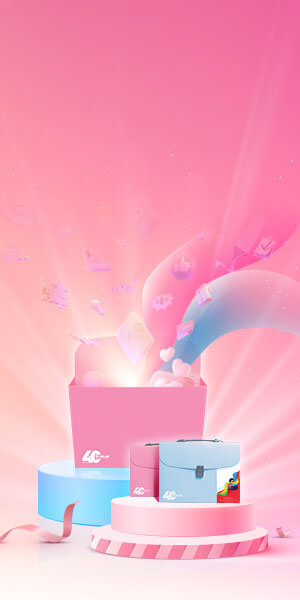
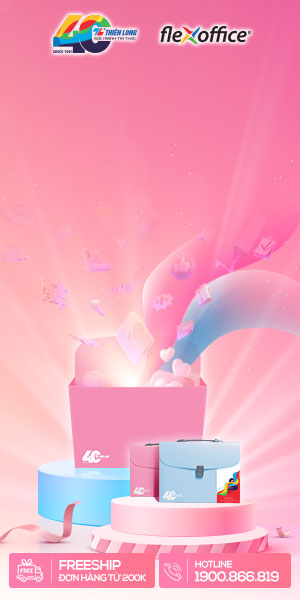
update thien-long v3

Changed region(s): [[0.03, 0.9, 0.99, 0.99], [0.15, 0.0, 0.48, 0.12], [0.51, 0.03, 0.84, 0.09]]

diff --git a/thien-long-v3/flex/300x600/css/css-animation-1.css b/thien-long-v3/flex/300x600/css/css-animation-1.css
@@ -13,9 +13,9 @@ body {
 
 .bg {
   width: 100%;
-  -webkit-animation: bg 10s infinite;
+ /* -webkit-animation: bg 10s infinite;
        -o-animation: bg 10s infinite;
-          animation: bg 10s infinite; }
+          animation: bg 10s infinite;*/ }
 .logo-1 {
          position: absolute;
     width: 31%;
@@ -158,45 +158,20 @@ body {
     opacity: 1;
     -webkit-transform: scale3d(1, 1, 1);
     transform: scale3d(1, 1, 1); } }
-@keyframes logo-1 {
-  from {
-    opacity: 0;
-    -webkit-transform: translate3d(-100%, 0, 0);
-    transform: translate3d(-100%, 0, 0); }
-  19% {
-    opacity: 0;
-    -webkit-transform: translate3d(-100%, 0, 0);
-    transform: translate3d(-100%, 0, 0); }
-  28% {
-    opacity: 1;
-    -webkit-transform: translate3d(0, 0, 0);
-    transform: translate3d(0, 0, 0); } }
-@keyframes logo-2 {
-  from {
-    opacity: 0;
-    -webkit-transform: translate3d(100%, 0, 0);
-    transform: translate3d(100%, 0, 0); }
-  19% {
-    opacity: 0;
-    -webkit-transform: translate3d(100%, 0, 0);
-    transform: translate3d(100%, 0, 0); }
-  28% {
-    opacity: 1;
-    -webkit-transform: translate3d(0, 0, 0);
-    transform: translate3d(0, 0, 0); } }
+
 @keyframes text-3 {
  from {
     opacity: 0;
     /*-webkit-transform: translate3d(100%, 0, 0);
     transform: translate3d(100%, 0, 0)*/; }
-  24% {
+  10% {
     opacity: 0;
     /*-webkit-transform: translate3d(100%, 0, 0);
     transform: translate3d(100%, 0, 0)*/;
      -webkit-transform: scale3d(0, 0, 0.3);
     transform: scale3d(0, 0, 0.3);
     transform-origin: top; }
-  33% {
+  20% {
     opacity: 1;
     /*-webkit-transform: translate3d(0, 0, 0);
     transform: translate3d(0, 0, 0); */
@@ -208,11 +183,11 @@ body {
     opacity: 0;
     -webkit-transform: translate3d(-100%, 0, 0);
     transform: translate3d(-100%, 0, 0); }
-  28% {
+  13% {
     opacity: 0;
     -webkit-transform: translate3d(-100%, 0, 0);
     transform: translate3d(-100%, 0, 0); }
-  38% {
+  23% {
     opacity: 1;
     -webkit-transform: translate3d(0, 0, 0);
     transform: translate3d(0, 0, 0); } }
@@ -221,14 +196,14 @@ body {
     opacity: 0;
     /*-webkit-transform: translate3d(100%, 0, 0);
     transform: translate3d(100%, 0, 0)*/; }
-  34% {
+  19% {
     opacity: 0;
     /*-webkit-transform: translate3d(100%, 0, 0);
     transform: translate3d(100%, 0, 0)*/;
      -webkit-transform: scale3d(0, 0, 0.3);
     transform: scale3d(0, 0, 0.3);
     transform-origin: bottom; }
-  44% {
+  28% {
     opacity: 1;
     /*-webkit-transform: translate3d(0, 0, 0);
     transform: translate3d(0, 0, 0); */
@@ -242,14 +217,14 @@ body {
     opacity: 0;
     /*-webkit-transform: translate3d(100%, 0, 0);
     transform: translate3d(100%, 0, 0)*/; }
-  32% {
+  16% {
     opacity: 0;
     /*-webkit-transform: translate3d(100%, 0, 0);
     transform: translate3d(100%, 0, 0)*/;
      -webkit-transform: scale3d(0, 0, 0.3);
     transform: scale3d(0, 0, 0.3);
     transform-origin: bottom; }
-  42% {
+  26% {
     opacity: 1;
     /*-webkit-transform: translate3d(0, 0, 0);
     transform: translate3d(0, 0, 0); */

diff --git a/thien-long-v3/flex/300x600/300x600.html b/thien-long-v3/flex/300x600/300x600.html
@@ -11,12 +11,6 @@
 	<link  href="css/css-animation-1.css" rel="stylesheet">
 	<a href="javascript:window.open(window.clickTag)" class="md-ads-wrapper md-ads-300-600 md-ads-mini">
 	<img class="bg" src="./images/bg.jpg" alt="">
-	<div class="logo-1">
-		<img  src="./images/logo-1.png" alt="">
-	</div>
-	<div class="logo-2">
-		<img  src="./images/logo-2.png" alt="">
-	</div>
 	<div class="text-1">
 		<img  src="./images/text-3.png" alt="">
 	</div>
@@ -28,15 +22,6 @@
 	</div>
 	<div class="gift">
 		<img src="./images/gift.png" alt="">
-	</div>
-	<div class="gift-2">
-		<img src="./images/gift-2.png" alt="">
-	</div>
-	<div class=" button-2">
-		<img src="./images/button-2.png" alt="">
-	</div>
-	<div class="button">
-		<img src="./images/button.png" alt="">
 	</div>
 </a>
 
